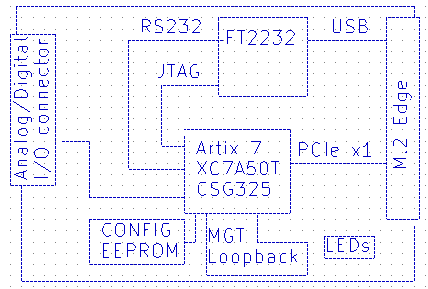
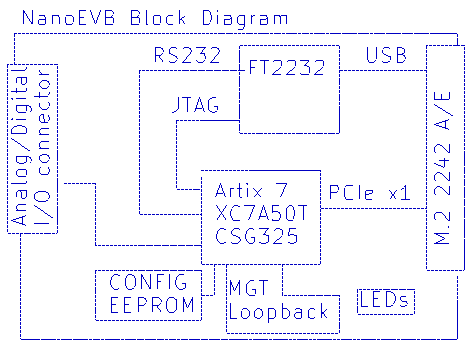
Added PicoEVB

Changed region(s): [[0.0, 0.0, 1.0, 0.9965], [0.5164, 0.3737, 0.6986, 0.4048], [0.9416, 0.0, 0.972, 0.0623]]

diff --git a/README.md b/README.md
@@ -22,7 +22,27 @@ and all necessary power supplies are built in. It will work in the following slo
 
 ## Block Diagram
 
-![Block Diagram](./NanoEVB-X1-block.png)
+![NanoEVB Block Diagram](./NanoEVB-X1-block.png)
+
+# PicoEVB-X1
+
+![Image of PicoEVB](./PicoEVB-X1-top.png)
+
+The PicoEVB is a smaller version of the NanoEVB, shrunk to fit in a M.2 2230 slot.
+The external I/O connector and spare uart have been removed to allow the fit into the following slots:
+
+- M.2 2230 Key A
+- M.2 2230 Key E
+- Full length mini PCIe via an adapter [like this one](https://www.amazon.com/dp/B01MR76H5F)
+
+## Features
+- PCI Express connection to the host via M.2 edge slot
+- Built-in JTAG cable works with Vivado and Labtools
+
+## Block Diagram
+
+![PicoEVB Block Diagram](./PicoEVB-X1-block.png)
+
 
 ## More information
 
